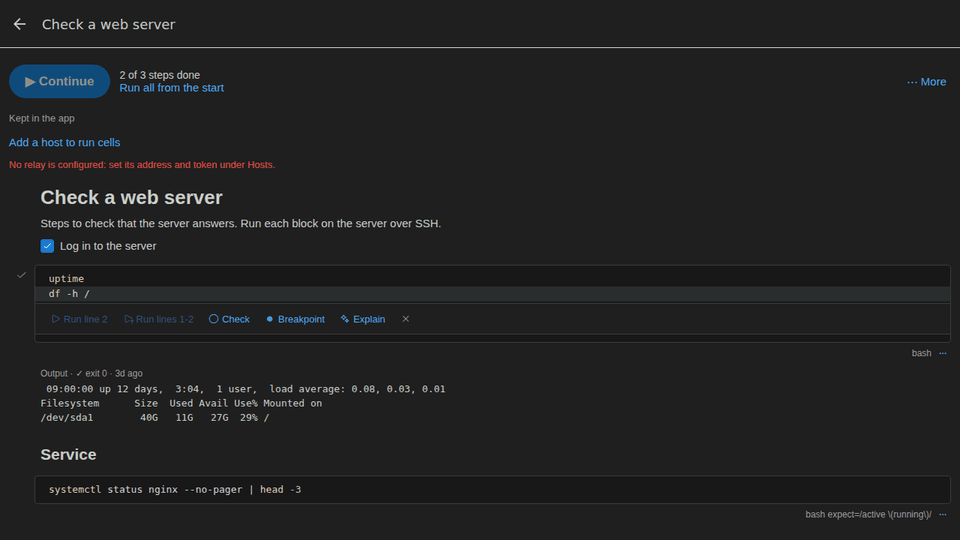
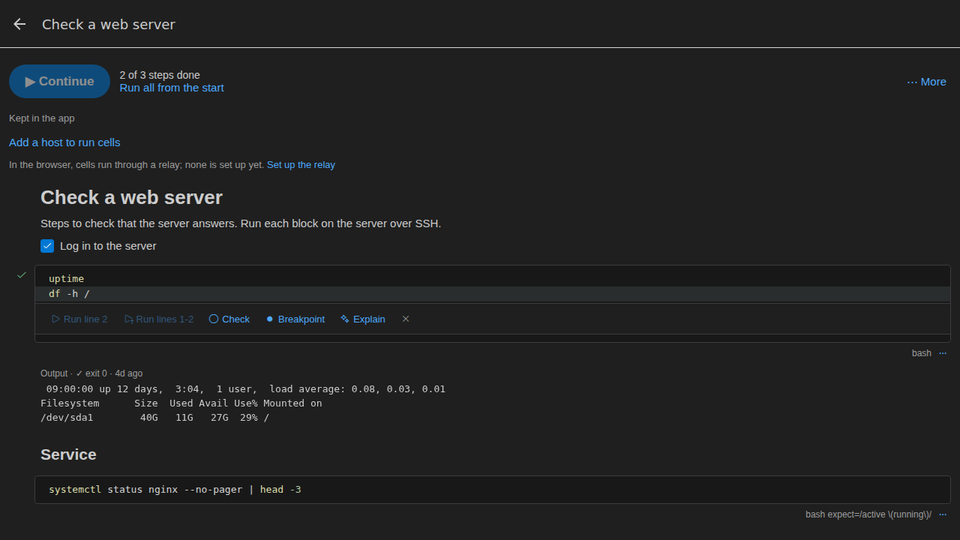
Docs: app screenshots from the App CI run of 2026-10-24
iPhone runbook, Hosts & settings (with Signing runbooks), the line run; Android trust; the web
line actions in dark, a line run through the relay, a saved runbook: the UI check's fixes,
the new toggles and section names.

diff --git a/docs/app.md b/docs/app.md
@@ -49,7 +49,7 @@ Explain Output, Approve / Reject a proposal. The [cheat sheet](cheatsheet.md) ha
 
 ## Hosts and the app's key
 
-<img src="app/ios-hosts.png" width="320" alt="The Hosts screen: one host, the app's public SSH key with a Copy button, secrets and output history">
+<img src="app/ios-hosts.png" width="320" alt="The Hosts & settings screen: one host, the app's public SSH key with a Copy button, and Signing runbooks with the name for signatures">
 
 You add each server once: a name, its address and the user to log in as. The app makes its own
 SSH key on first use. On phones the private key is made inside the secure hardware (the Secure
